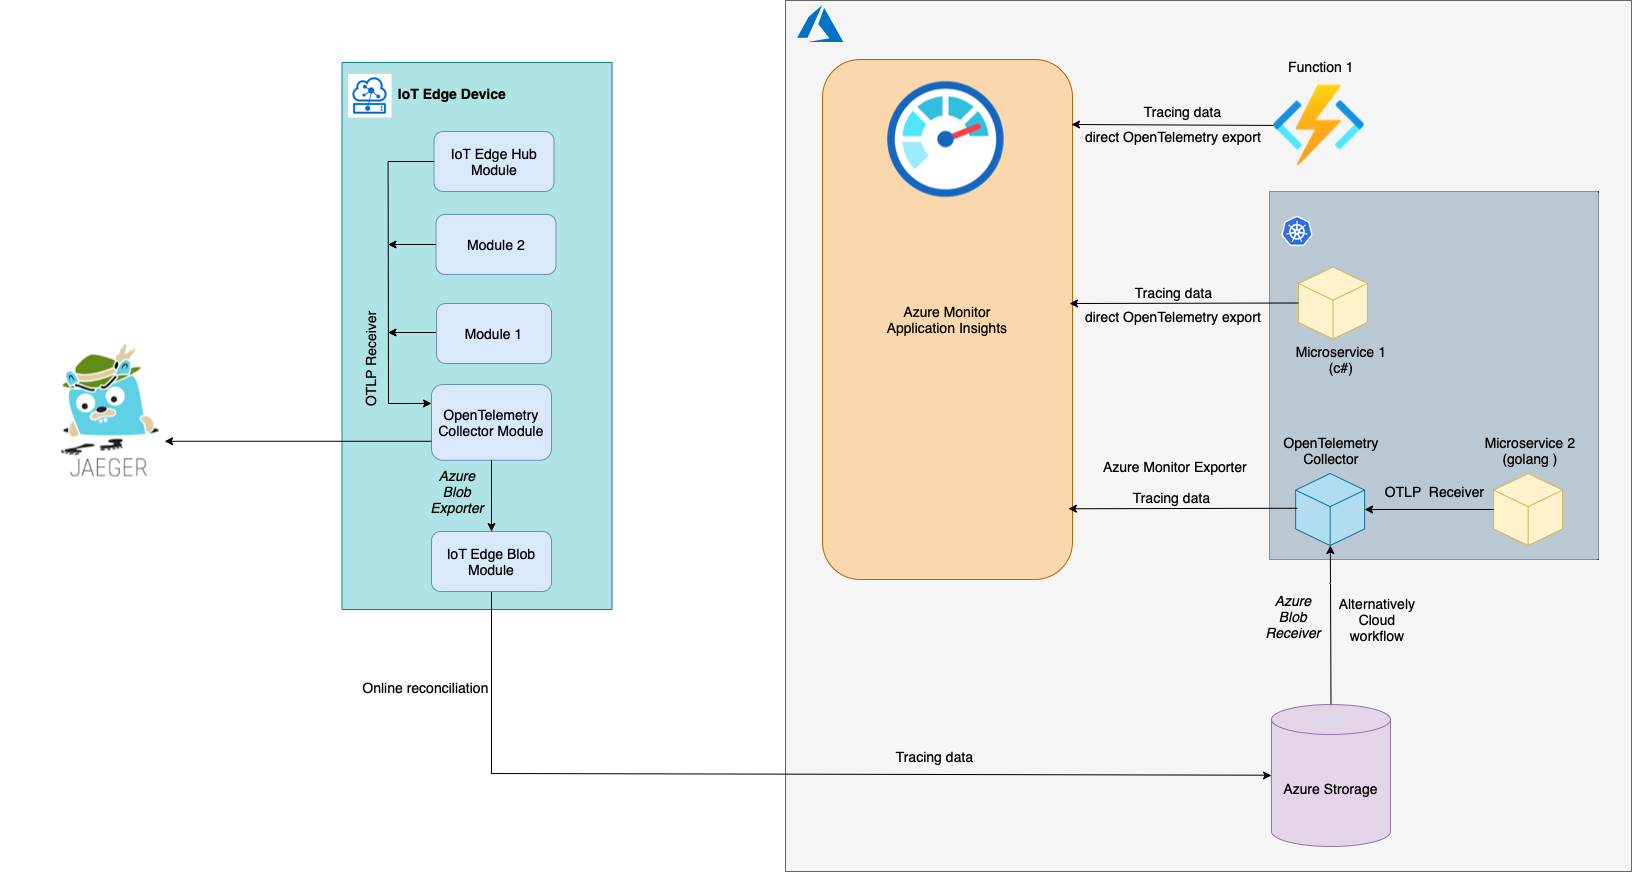
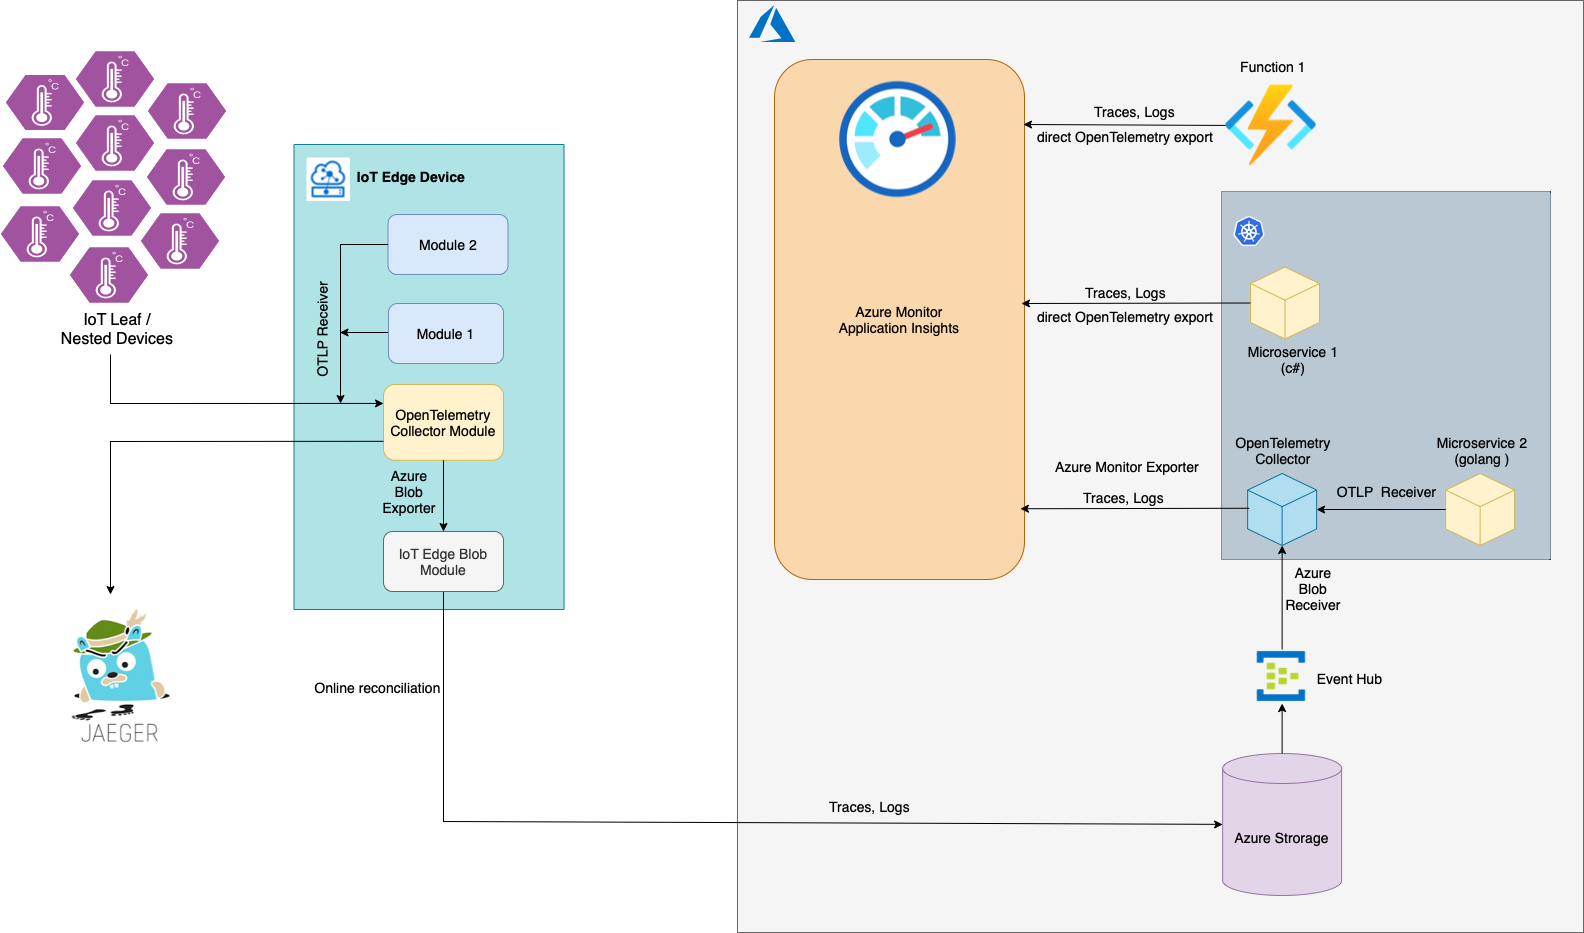
docs

diff --git a/docs/iot-edge-distributed-tracing.md b/docs/iot-edge-distributed-tracing.md
@@ -20,15 +20,27 @@ Besides the standard use-case of sending telemetry data from devices to the clou
 
 ## Approach
 - Instrument custom modules on IoT Edge device with OpenTelemetry to report tracing.
-- The key component to route OpenTelemetry tracing data to the observability backend (e.g. App Insights, Jaeger, Zipkin, etc.) is [OpenTelemetry Collector](https://github.com/open-telemetry/opentelemetry-collector/blob/main/docs/design.md) which may work on the device as a module and in the cloud as an Azure Function or K8s microservice.
-- All modules on the device should export tracing data to OpenTelemetry Collector Module via [OpenTelemetry Protocol Exporter](https://github.com/open-telemetry/opentelemetry-specification/blob/main/specification/protocol/exporter.md) (e.g. with [OTLP exporter](https://github.com/open-telemetry/opentelemetry-dotnet/blob/main/src/OpenTelemetry.Exporter.OpenTelemetryProtocol/README.md)). This decouples the module code from the details on how/where the tracing data is going to be used.
-- On the devices that are mostly/normally online, the OpenTelemetry Collector Module is configured to receive traces with [OTLP Receiver](https://github.com/open-telemetry/opentelemetry-collector/blob/main/receiver/otlpreceiver/README.md) and to export traces to Azure Monitor (App Insights) via [Azure Monitor Exporter for OpenTelemetry Collector](https://github.com/open-telemetry/opentelemetry-collector-contrib/tree/main/exporter/azuremonitorexporter)              
-  - Alternatively, the devices that are always online (can't work otherwise) and have a stable connection with the cloud may have custom modules export tracing data directly to App Insights with [Azure Monitor OpenTelemetry exporter](https://docs.microsoft.com/en-us/azure/azure-monitor/app/opentelemetry-enable?tabs=net#enable-azure-monitor-application-insights). In this case they don't need to have OpenTelemetry Collector Module on the device.
+- The key component to route OpenTelemetry tracing data and logs to the observability backend (e.g. App Insights, Jaeger, Zipkin, etc.) is [OpenTelemetry Collector](https://github.com/open-telemetry/opentelemetry-collector/blob/main/docs/design.md) which may work on the device as a module and in the cloud as an Azure Function or K8s microservice.
+- All modules on the device should export traces and logs to OpenTelemetry Collector Module via [OpenTelemetry Protocol Exporter](https://github.com/open-telemetry/opentelemetry-specification/blob/main/specification/protocol/exporter.md) (e.g. with [OTLP exporter](https://github.com/open-telemetry/opentelemetry-dotnet/blob/main/src/OpenTelemetry.Exporter.OpenTelemetryProtocol/README.md)). This decouples the module code from the details on how/where the tracing data is going to be used.
+
+### Online IoT Edge devices
+- On the devices that are mostly/normally online, the OpenTelemetry Collector Module is configured to receive traces and logs with [OTLP Receiver](https://github.com/open-telemetry/opentelemetry-collector/blob/main/receiver/otlpreceiver/README.md) and to export the data to Azure Monitor (App Insights) via [Azure Monitor Exporter for OpenTelemetry Collector](https://github.com/open-telemetry/opentelemetry-collector-contrib/tree/main/exporter/azuremonitorexporter)              
+  - Alternatively, the devices that are always online (can't work otherwise) and have a stable connection with the cloud may have custom modules export traces and logs directly to App Insights with [Azure Monitor OpenTelemetry exporter](https://docs.microsoft.com/en-us/azure/azure-monitor/app/opentelemetry-enable?tabs=net#enable-azure-monitor-application-insights). In this case they don't need to have OpenTelemetry Collector Module on the device.
 
 ![online-trace](iot-distr-tracing-online.png)
-- On the devices that may be normally offline, the OpenTelemetry Collector Module is configured to export traces to Azure Blob Storage module (an OpenTelemetry Collector exporter for that should be implemented [in this repo](https://github.com/open-telemetry/opentelemetry-collector-contrib/tree/main/exporter)). Once the module is online the traces will be replicated automatically to the storage account in the cloud. On the cloud side there is an OpenTelemetry Collector instance running and receiving traces from the storage with Azure Storage receiver (to be implemented [in this repo](https://github.com/open-telemetry/opentelemetry-collector-contrib/tree/main/receiver)) and exports traces to Azure Monitor via [Azure Monitor Exporter for OpenTelemetry Collector](https://github.com/open-telemetry/opentelemetry-collector-contrib/tree/main/exporter/azuremonitorexporter). 
+
+### Leaf devices
+- [IoT leaf](https://docs.microsoft.com/azure/iot-fundamentals/iot-glossary#leaf-device) devices normally sit on the lower network levels without access to Azure Cloud, they might be implemented with languages lke C/C++, Rust, so there is no App Insights SDK available for them, these devices are normally small and not capable to host something like OpenTelemtry Collector on their own.
+-  Leaf devices export their traces and logs via OTLP protocol to the IoT Edge device which plays a role of a gateway and resends everything to the cloud.
+
+![leaf-trace](iot-distr-tracing-leaf.png)
+
+### Offline IoT Edge devices
+- On the devices that may be normally offline, the OpenTelemetry Collector Module is configured to export traces and logs to [Azure Blob Storage module](https://docs.microsoft.com/azure/iot-edge/how-to-store-data-blob) via _Azure Blob Exporter_. This module keeps the tracess and logs on the device as long as it is offline. Once the device is online, [Azure Blob Storage module](https://docs.microsoft.com/azure/iot-edge/how-to-store-data-blob) automatically replicates the data to the blob storage account in the cloud. On the cloud side there is an OpenTelemetry Collector instance running and reading traces and logs from the blob storage with _Azure Blob Receiver_  and exports the data to Azure Monitor via [Azure Monitor Exporter](https://github.com/open-telemetry/opentelemetry-collector-contrib/tree/main/exporter/azuremonitorexporter). 
+    - OpenTelemetry Collector instance in the cloud can be deployed as a pod on an [AKS](https://azure.microsoft.com/services/kubernetes-service/) instance or as a container on [ACI](https://docs.microsoft.com/azure/container-instances/) or just as a standalone instance on a VM
+    - OpenTelemetry Collector _Azure Blob Receiver_ is [subscribed](https://docs.microsoft.com/azure/storage/blobs/storage-blob-event-overview#the-event-model) on Azure Blob Storage events and when a new trace or log arrives to the cloud storage from th device, the receiver reads the data from the blob and transfers it to Azure Monitor. 
     - Alternatively, for the devices that are mostly offline and/or not supposed to report much to the cloud, the tracing data can be forwarded by OpenTelemetry Collector Module to an open source observability backend (e.g. Jaeger, Zipkin) using one of [available exporters](https://github.com/open-telemetry/opentelemetry-collector-contrib/tree/main/exporter). 
-    - Alternatively, until Azure Storage receiver for OpenTelemetry Collector is implemented, a cloud workflow could be used to import traces from Azure Storage to the OpenTelemetry Collector. A cloud workflow typically consists of Event Hub listening for traces arrival to the storage and an Azure function triggering on that event. The function uses OTLP to export traces to the collector.
+    
 
 ![offline-trace](iot-distr-tracing-offline.png)
 
